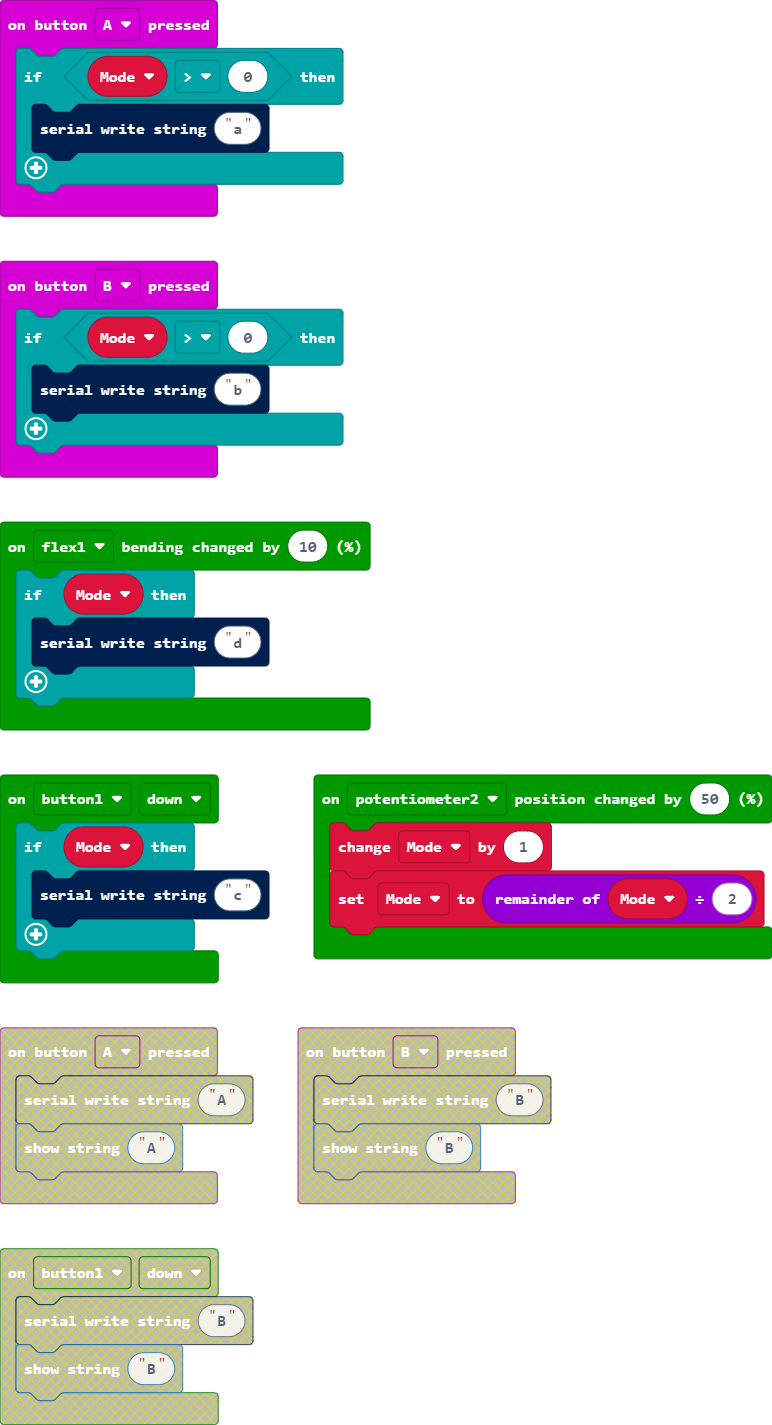
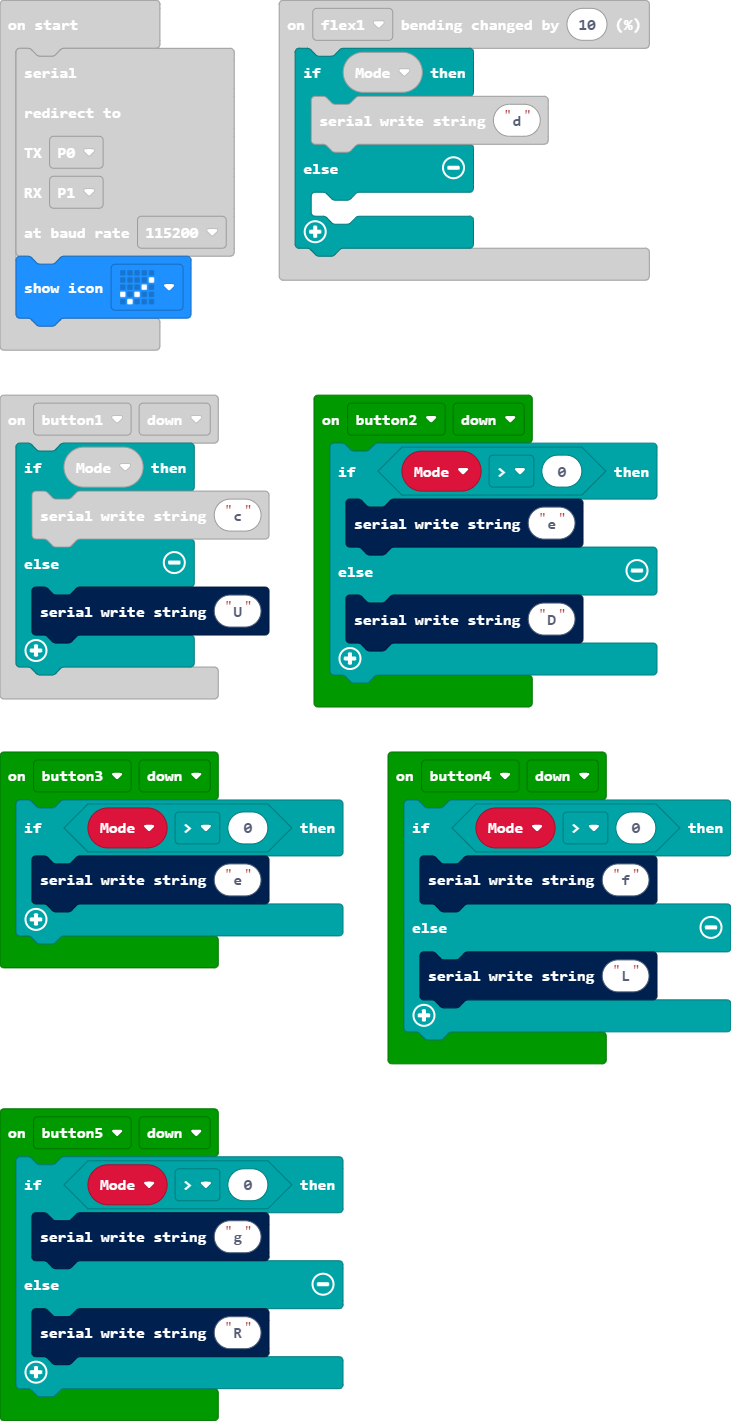
WIP

diff --git a/main.ts b/main.ts
@@ -1,3 +1,10 @@
+myModules.button5.onEvent(jacdac.ButtonEvent.Down, function () {
+    if (Mode > 0) {
+        serial.writeString("g")
+    } else {
+        serial.writeString("R")
+    }
+})
 modules.potentiometer2.onPositionChangedBy(50, function () {
     Mode += 1
     Mode = Mode % 2
@@ -5,11 +12,20 @@ modules.potentiometer2.onPositionChangedBy(50, function () {
 modules.button1.onEvent(jacdac.ButtonEvent.Down, function () {
     if (Mode) {
         serial.writeString("c")
+    } else {
+        serial.writeString("U")
     }
 })
 modules.flex1.onBendingChangedBy(10, function () {
     if (Mode) {
         serial.writeString("d")
+    } else {
+    	
+    }
+})
+myModules.button3.onEvent(jacdac.ButtonEvent.Down, function () {
+    if (Mode > 0) {
+        serial.writeString("e")
     }
 })
 input.onButtonPressed(Button.A, function () {
@@ -17,9 +33,23 @@ input.onButtonPressed(Button.A, function () {
         serial.writeString("a")
     }
 })
+myModules.button4.onEvent(jacdac.ButtonEvent.Down, function () {
+    if (Mode > 0) {
+        serial.writeString("f")
+    } else {
+        serial.writeString("L")
+    }
+})
 input.onButtonPressed(Button.B, function () {
     if (Mode > 0) {
         serial.writeString("b")
+    }
+})
+modules.button2.onEvent(jacdac.ButtonEvent.Down, function () {
+    if (Mode > 0) {
+        serial.writeString("e")
+    } else {
+        serial.writeString("D")
     }
 })
 let Mode = 0
@@ -28,3 +58,4 @@ SerialPin.P0,
 SerialPin.P1,
 BaudRate.BaudRate115200
 )
+basic.showIcon(IconNames.Yes)

diff --git a/jacdac.ts b/jacdac.ts
@@ -7,5 +7,14 @@ namespace myModules {
     //% fixedInstance whenUsed block="potentiometer3"
     export const potentiometer3 = new modules.PotentiometerClient("potentiometer3");
 
+    //% fixedInstance whenUsed block="button3"
+    export const button3 = new modules.ButtonClient("button3");
+
+    //% fixedInstance whenUsed block="button4"
+    export const button4 = new modules.ButtonClient("button4");
+
+    //% fixedInstance whenUsed block="button5"
+    export const button5 = new modules.ButtonClient("button5");
+
 }
     
